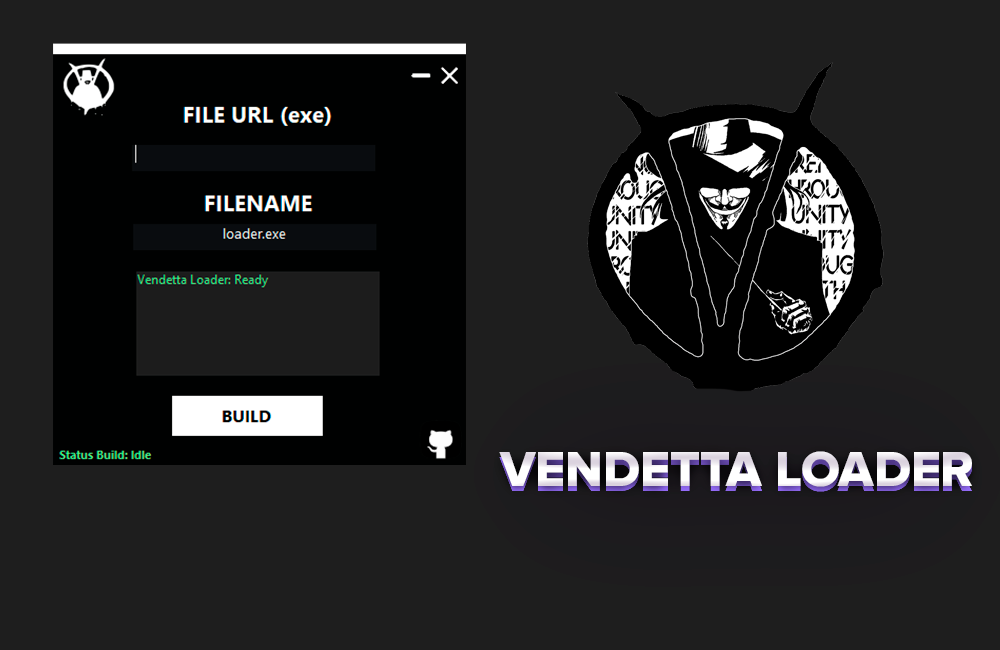
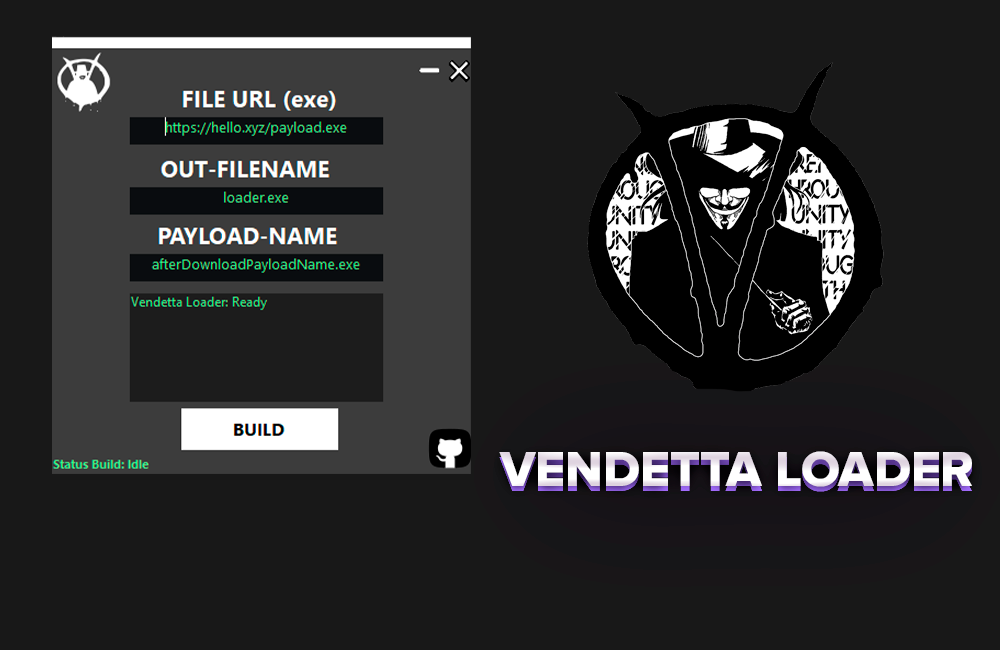
-

Changed region(s): [[0.031, 0.0308, 0.496, 0.7385]]

diff --git a/README.md b/README.md
@@ -3,7 +3,7 @@
 ![](banner.png)
 
 ## 📑 About
-</b>VLoader PE-Files on C#</b>
+</b>VLoader 2.0 PE-Files on C#</b>
 <strong>Most simple loader exe files, this program have builder for crafting stubs.</strong>
 
 ![](screen.png)
@@ -11,6 +11,8 @@
  * Changelog: 03/02/2024
  * Build Size: 4kb✅
  * Self-Detele:✅
+ * AntiVM: ✅
+ * Anti-AnyRun: ✅
 
 ⚠ Disclaimer:
 <strong>This project for education and purposes only!</strong>
